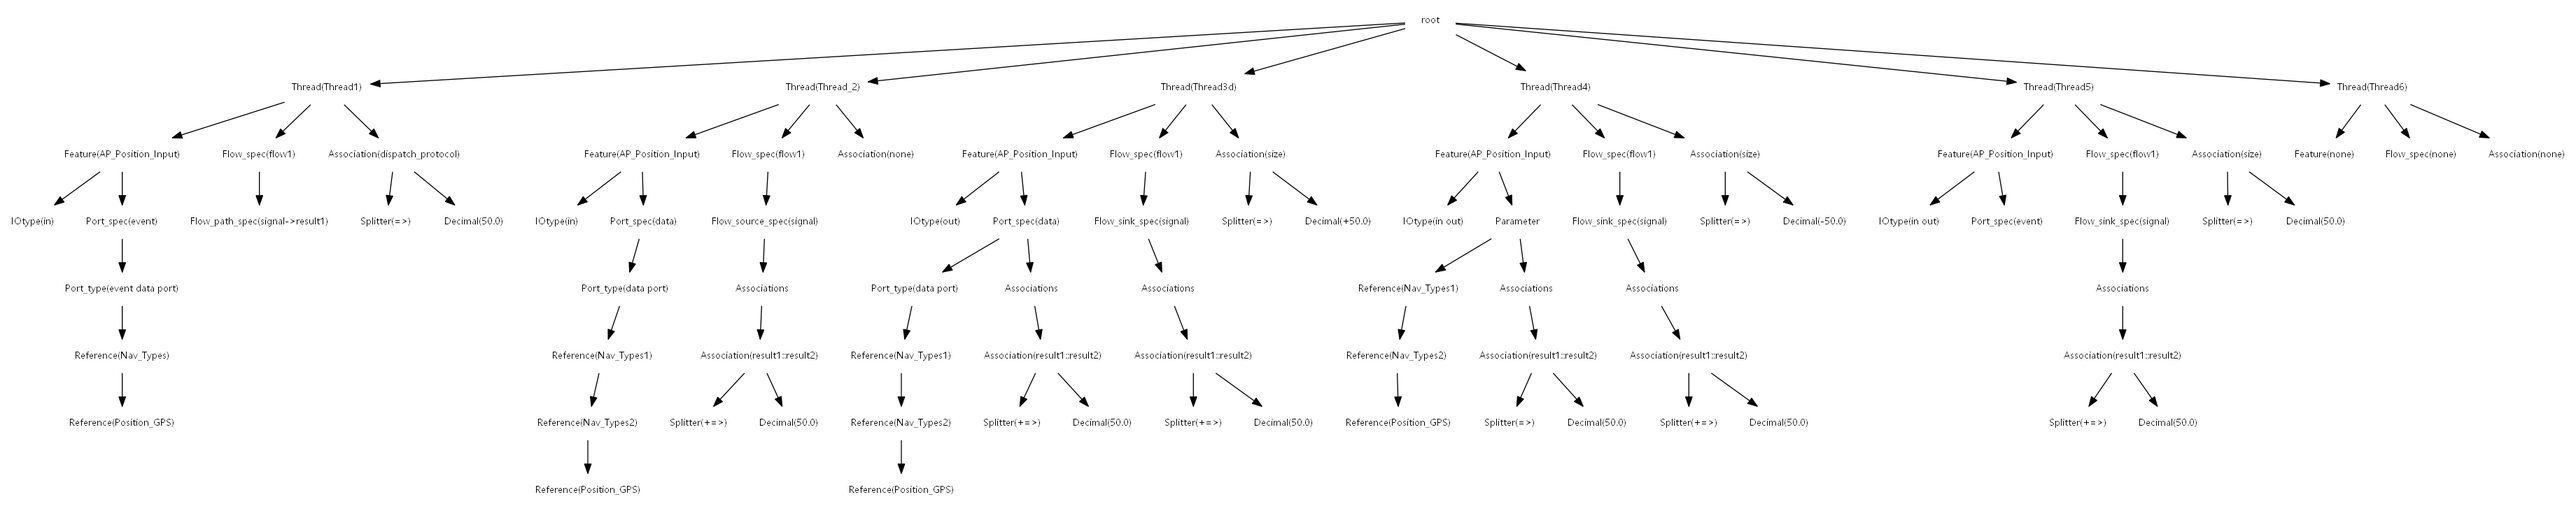
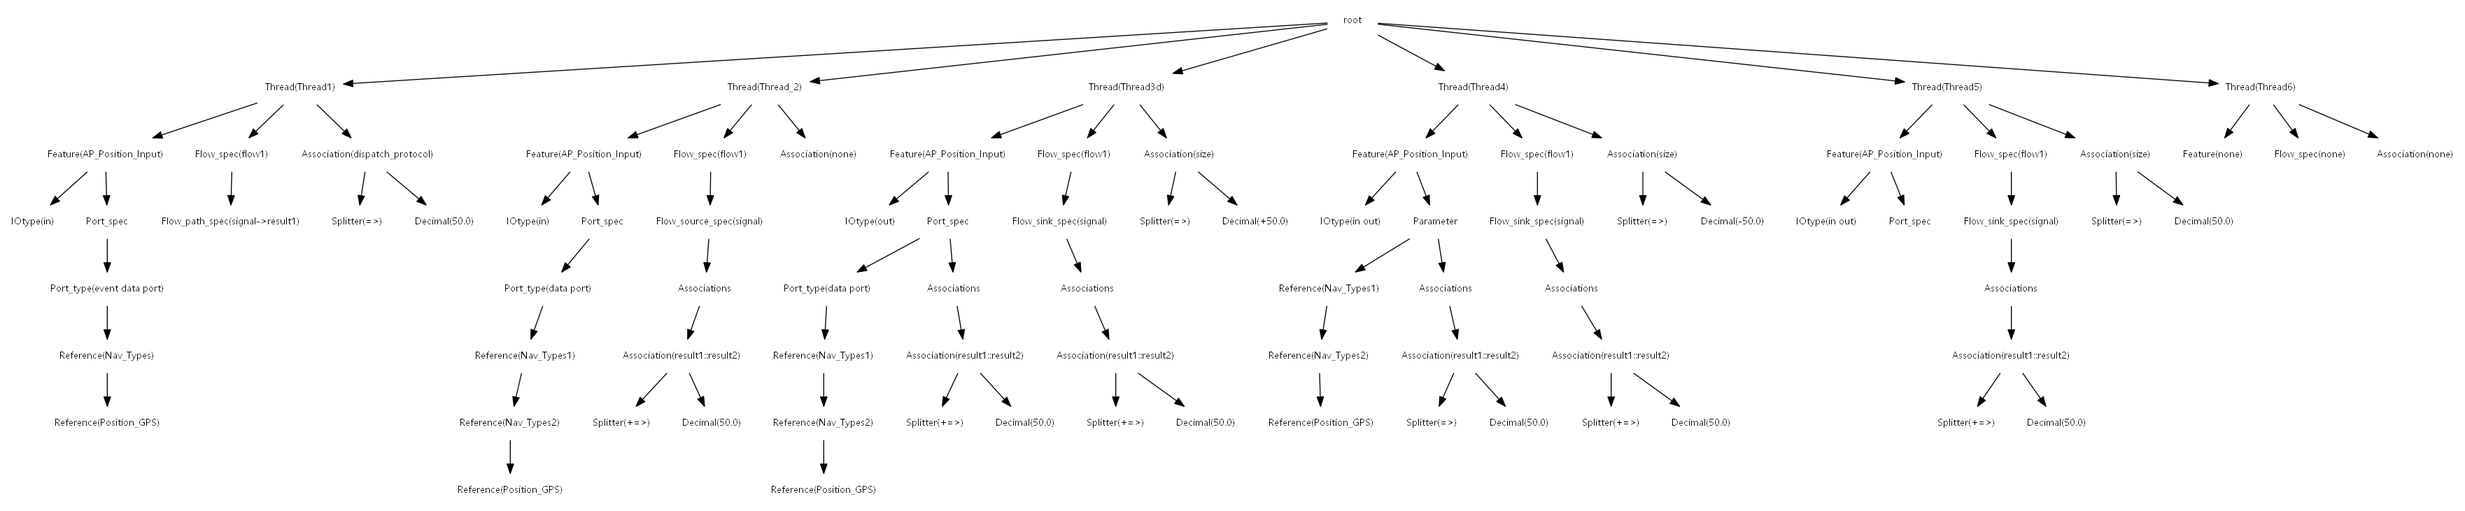
修改bug

diff --git a/语法分析器/语法分析器.cpp b/语法分析器/语法分析器.cpp
@@ -95,7 +95,7 @@ bool Syntax_Analysiser::analysis(Synstate state,int father) {
 			}
 			break;
 		case Port_spec:	//port_spec --> port_type Associations ;
-			child = tree.addChild(father, "Port_spec("+getName()+")");
+			child = tree.addChild(father, "Port_spec");
 			analysis(Port_type, child);
 			analysis(Associations, child);
 			match(sem);
